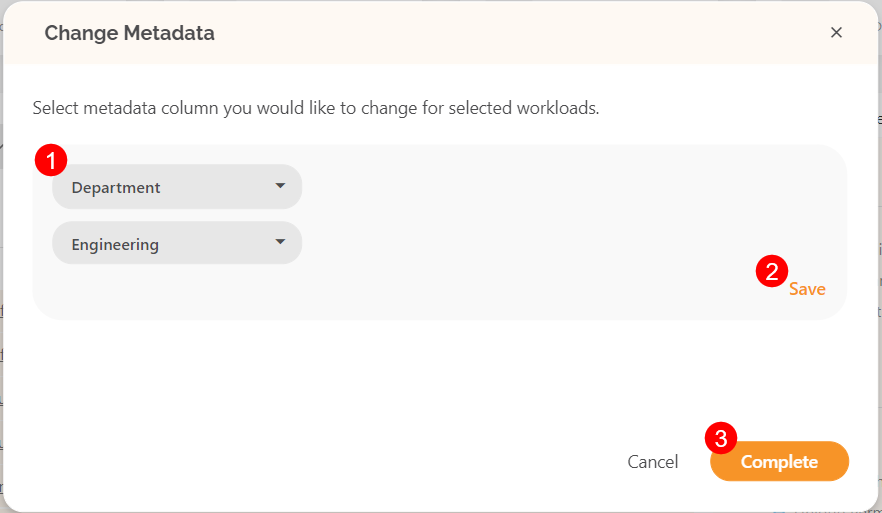
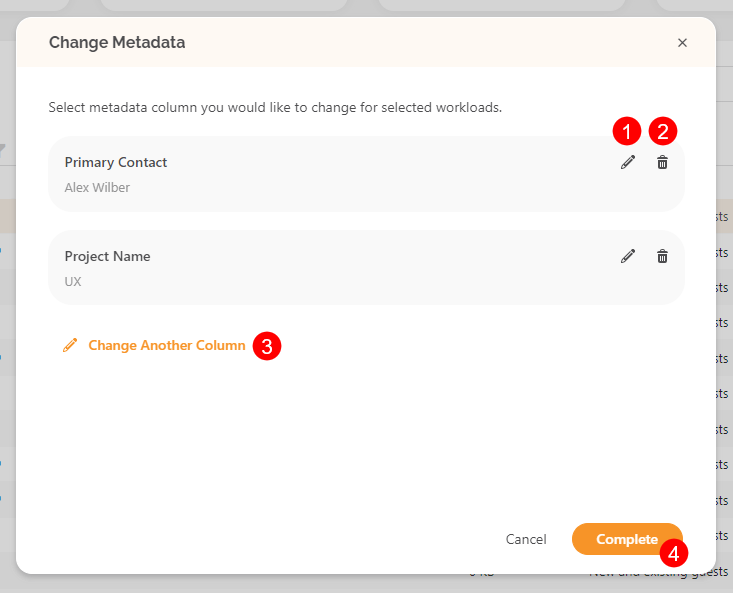
change metadata article updated

diff --git a/governance-and-automation/manage-custom-metadata.md b/governance-and-automation/manage-custom-metadata.md
@@ -44,7 +44,9 @@ To start, take the following steps:
 Once the create new metadata screen opens, fill in the following information.
 * **Metadata Name (1)**; the name of the metadata.
 * **Description (2)**; the description of the metadata for end users.
-* Select the **data type (3)** of the new metadata under the Customize Field.
+* **Enable collaborators to change the created metadata (3)** by checking the Allow collaborators to change this metadata value option
+  * by default, this option is disabled
+* Select the **data type (4)** of the new metadata under the Customize Field.
   * In the dropdown menu, there are several data types to choose from
     * **Text**
     * **People**
@@ -52,13 +54,13 @@ Once the create new metadata screen opens, fill in the following information.
     * **Dropdown**
     * **Yes/No**
     * **Number**
-* Use the **null text (4)** area to add a short hint that will describe the input field for end users.
-* When satisfied, click Confirm to apply the new metadata.
+* Use the **null text (5)** area to add a short hint describing the input field for end users.
+* When satisfied, click **Confirm (6)** to save the metadata definiton.
 
 ![Create New Metadata](../.gitbook/assets/custom-metadata_create-new.png)
 
  {% hint style="info" %}
-**Hint!** To connect to metadata from your environment, when creating custom metadata, click on Advanced Options and insert the property bag key in the designated space.
+**Hint!** To connect to metadata from your environment, when creating custom metadata, click the Advanced Options action and insert the property bag key in the designated space.
 {% endhint %}
 
 ## Change Custom Metadata
@@ -72,14 +74,13 @@ To change the custom metadata that has been set up on workspaces, select Sites o
 
 ![Create New Metadata](../.gitbook/assets/custom-metadata_change-location.png)
 
-* Select the **type of metadata (1)** that should be changed from the dropdown menu.
-  * In the field below, choose or input the required information.
-* Click the **Save (2)** button to store the change.
-   * There will then be the option to Change Another Column.
-* Click **Complete (3)** when satisfied with the changes.
+On the Change Metadata dialog, you can:
+* **Edit (1)** or **delete (2)** the existing metadata entry
+* **Specify additional metadata (3)** by clicking the Change Another Column action
+* Click **Complete (3)** when satisfied with your changes.
   * This will start the process of changing the custom metadata, and once completed, the information input will be displayed under the selected workspaces.
 
-![Create New Metadata](../.gitbook/assets/custom-metadata_change-custom-metadata.png)
+![Change Metadata](../.gitbook/assets/custom-metadata_change-custom-metadata.png)
 
 
 ## Filter Workspaces by Metadata
